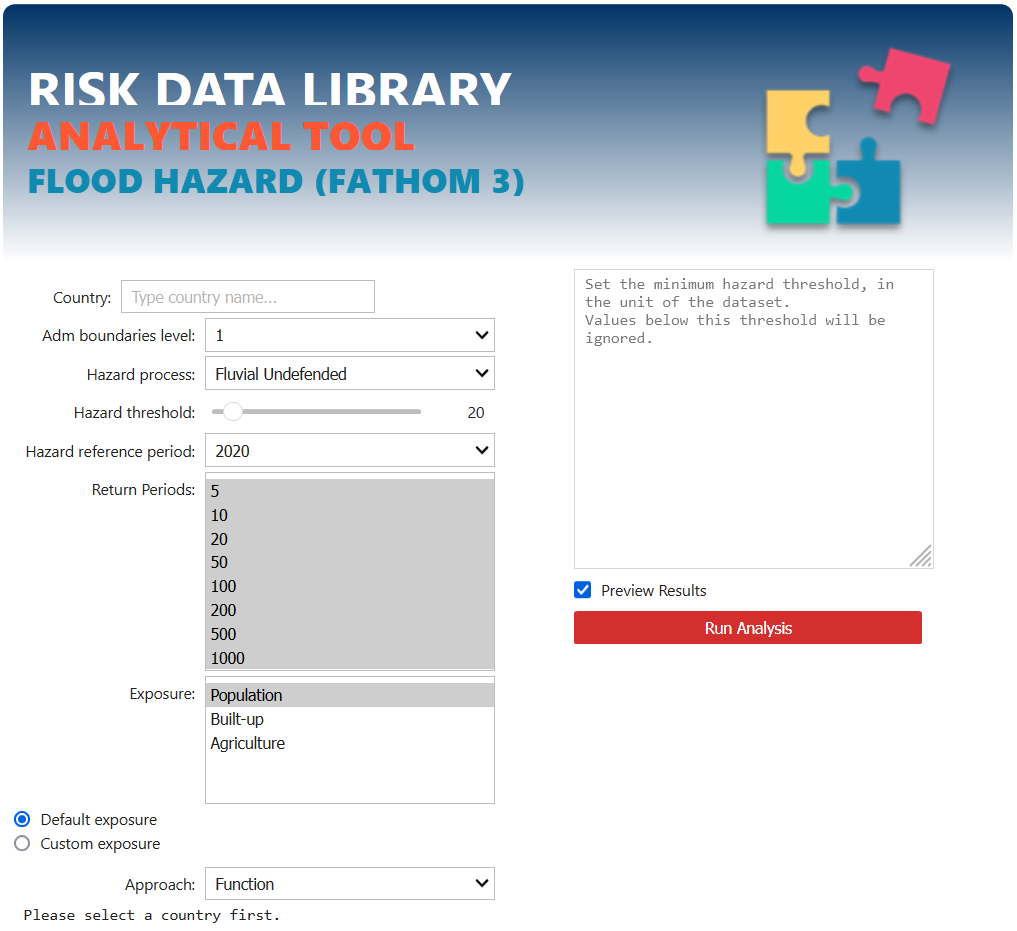
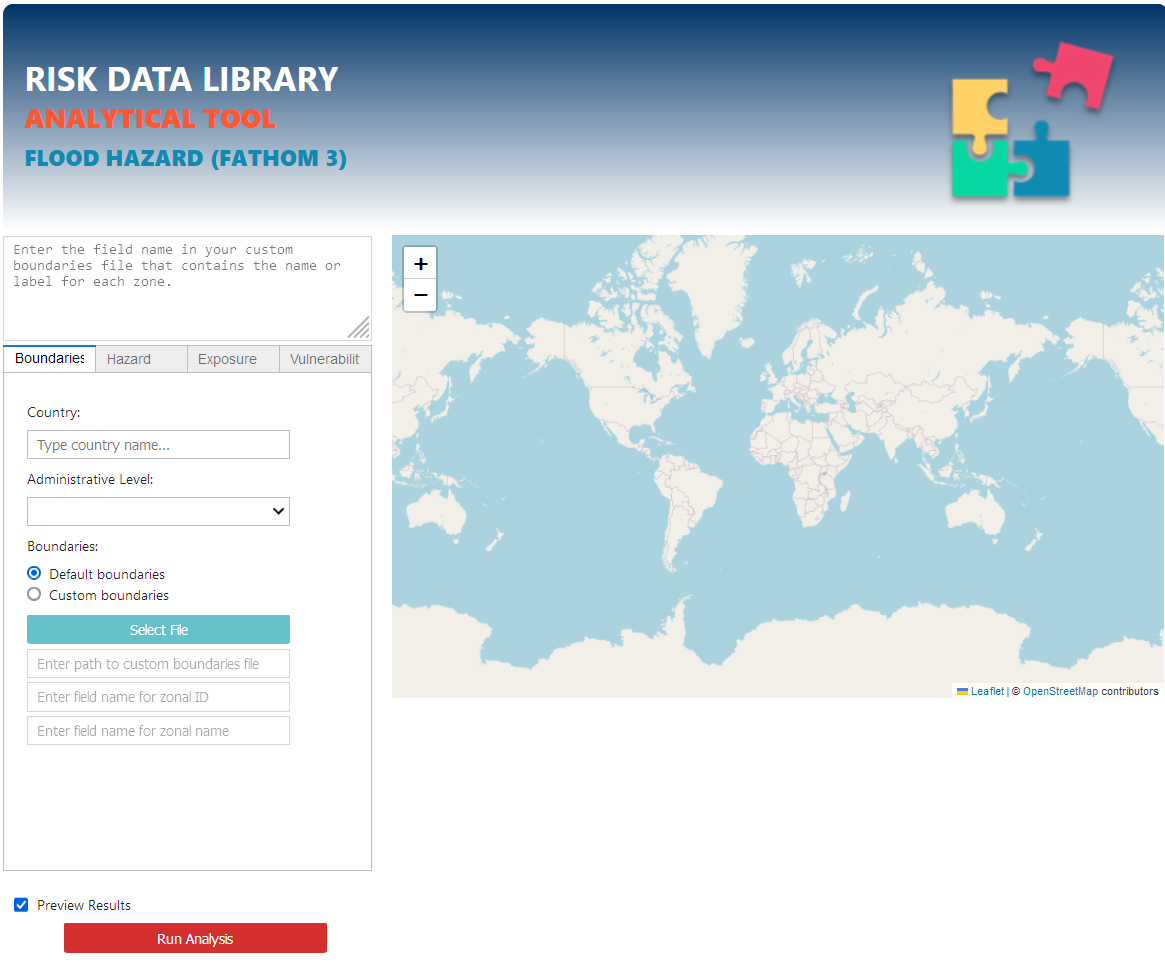
Update tool instructions

diff --git a/docs/tool-setup.md b/docs/tool-setup.md
@@ -70,7 +70,7 @@ Exampe for Nepal, running analysis on undefended flood, 2020, RP100:
    - common.py
    - ...
    - Data/
-     - HZD/NPL/FLUVIAL_UNDEFENDED/2020/1in100.tif	  	Hazard layers
+     - HZD/NPL/FLUVIAL_UNDEFENDED/2020/1in100.tif	  	  Hazard layers
      - EXP/		                                  Exposure layers
      - RSK/		                                  Output directory
   ```
@@ -82,22 +82,39 @@ Exampe for Nepal, running analysis on undefended flood, 2020, RP100:
 
 ## Running the analysis
 
-- Select the country first.
-- Select one or more (CTRL+Click / drag mouse) Return Periods.
-- Select one or more (CTRL+Click / drag mouse) Exposure categories.
-- Select custom exposure and enter the name of the file in the EXP folder if you don't want to use the default sources.
+- Select the country first. Sub-national boundaries for level 1 and 2 can be fetched automatically. Else, you can load custom boundaries as geopackage (WGS 84). You will need to specify the field to be used to run zonal statistics, and related label name (e.g. ADM3_PCODE and ADM3_EN).
+    ```{figure} images/GUI_F3_country.png
+    ---
+    width: 100%
+    align: center
+    ---
+    ```
+- Move to Hazard tab: select the hazard process, the minimum hazard intensity threshold, the time period and climate scenario. Select one or more Return Periods (CTRL+Click / drag mouse).
+    ```{figure} images/GUI_F3_hzd.png
+    ---
+    width: 100%
+    align: center
+    ---
+    ```
+- Select one or more Exposure categories (CTRL+Click / drag mouse). You can select a custom exposure layer for each selected category (.tif raster, WGS 84).
+    ```{figure} images/GUI_F3_exp.png
+    ---
+    width: 100%
+    align: center
+    ---
+    ```
 - Select the approach to use for the analysis:
   - When using "function", the best impact function is selected for the selected country and exposure categories.
   - When using "classes", hazard intensity thresholds must be specified by the user.
+    ```{figure} images/GUI_F3_vln.png
+    ---
+    width: 100%
+    align: center
+    ---
+    ```
 - Check "Preview results" to generate map and charts output in the GUI.
 
-```{figure} images/GUI_pre_map.png
----
-width: 100%
-align: center
----
-```
-```{figure} images/GUI_pre_charts.jpg
+```{figure} images/GUI_F3_rsk.png
 ---
 width: 100%
 align: center
